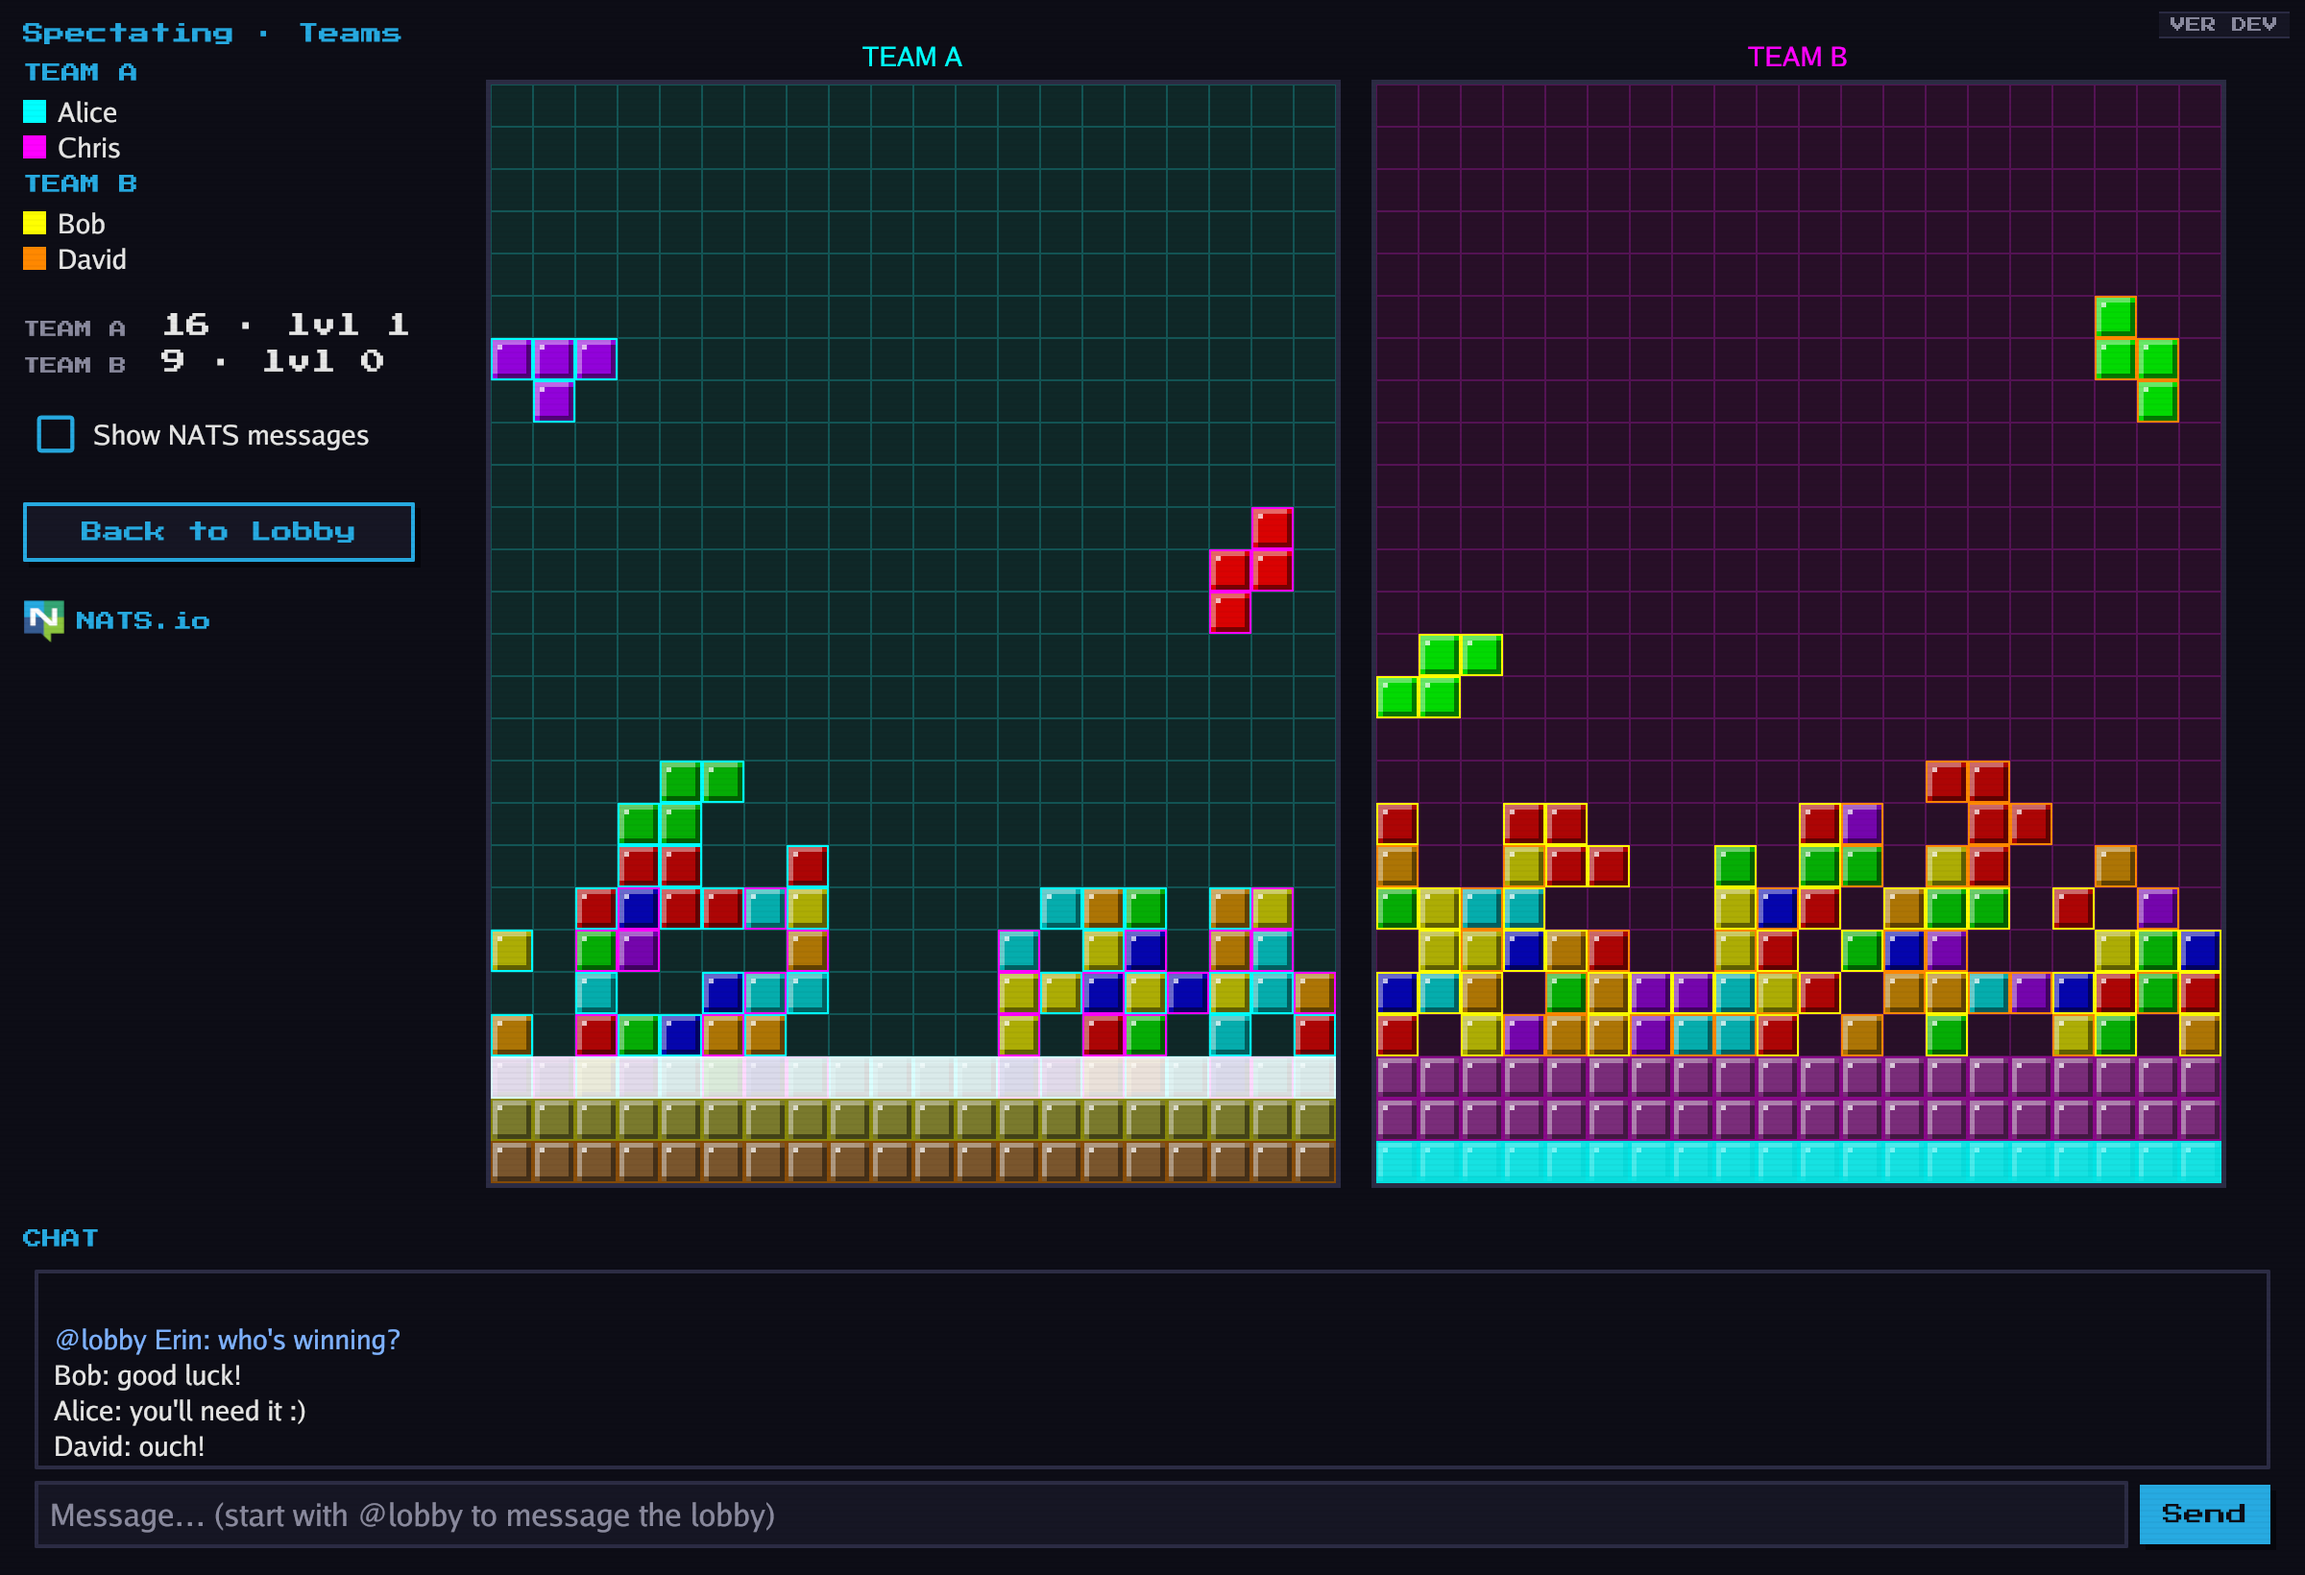
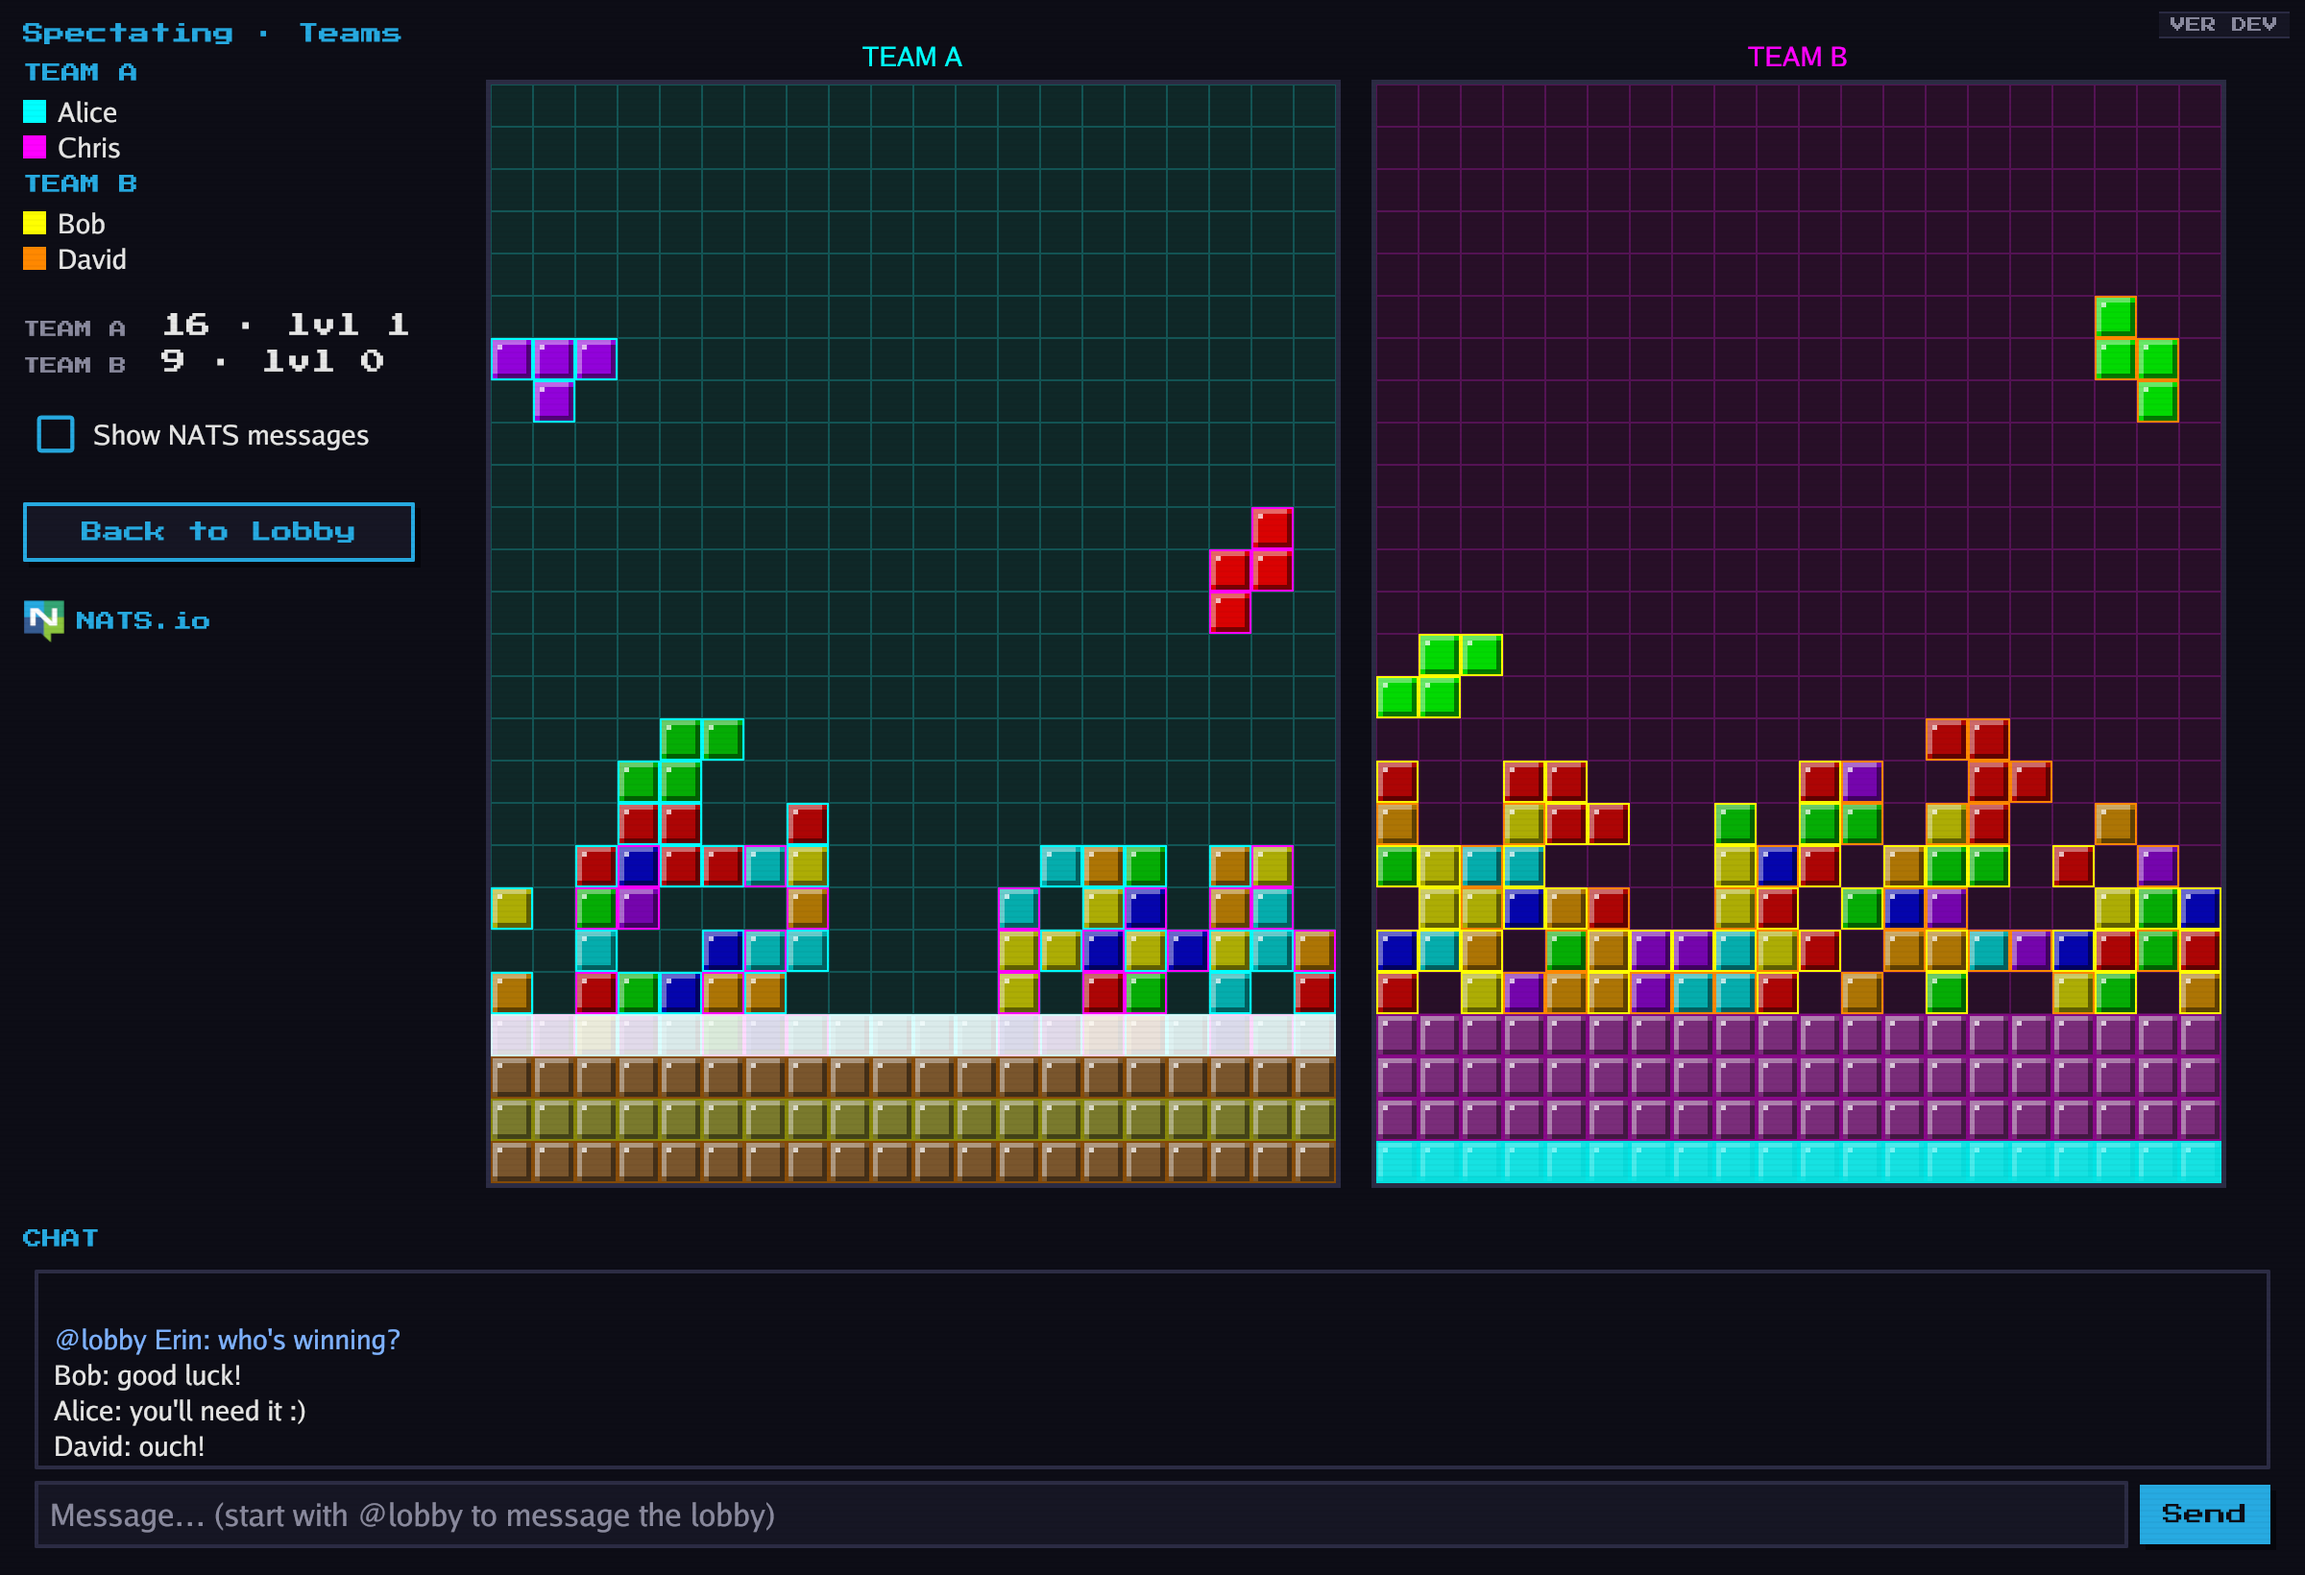
Update README screenshots

Changed region(s): [[0.1875, 0.4354, 0.9688, 0.7152]]

diff --git a/internal/nativeui/readme_screenshots_test.go b/internal/nativeui/readme_screenshots_test.go
@@ -221,15 +221,18 @@ func TestCaptureREADMEScreenshots(t *testing.T) {
 		t.Fatal(err)
 	}
 
-	// Both teams already carry garbage from earlier exchanges: team A (Alice
-	// + Chris) two rows sent by team B — David's at the bottom, Bob's above —
-	// and team B (Bob + David) two rows sent by Chris. Team A's stack keeps
-	// the slot open for the staged clear.
+	// Both teams already carry a few rows of garbage from earlier exchanges:
+	// team A (Alice + Chris) three rows sent by team B — David's, Bob's and
+	// David's again, bottom up, so the per-sender framing shows — and team B
+	// (Bob + David) three rows, all sent by Chris, so the row about to land
+	// from Alice stands out in her color. Team A's stack keeps the slot open
+	// for the staged clear.
+	garbageA, garbageB := []int{3, 2, 3}, []int{1, 1, 1}
 	rng := rand.New(rand.NewSource(3))
-	prefillTeamBoard(t, js, gameID, 0, []int{3, 2}, true, rng)
-	prefillTeamBoard(t, js, gameID, 1, []int{1, 1}, false, rng)
+	prefillTeamBoard(t, js, gameID, 0, garbageA, true, rng)
+	prefillTeamBoard(t, js, gameID, 1, garbageB, false, rng)
 	height := config.TeamTotalRows(2)
-	floorA := height - 1 - 2 // team A's lowest stack row: the one the I piece completes
+	floorA := height - 1 - len(garbageA) // team A's lowest stack row: the one the I piece completes
 
 	// Four player engines (team A: Alice+Chris, team B: Bob+David) and a
 	// spectator engine, all consuming the real game stream.
@@ -293,8 +296,8 @@ func TestCaptureREADMEScreenshots(t *testing.T) {
 	// screens seed their garbage detection — and no row may be complete yet
 	// (the prefill is seeded, so a complete row here means the seed changed).
 	waitFor(t, "pre-attack boards", func() bool {
-		return garbageRowsOf(spec, 0) == 2 && garbageRowsOf(spec, 1) == 2 &&
-			garbageRowsOf(bob, 0) == 2 && garbageRowsOf(bob, 1) == 2
+		return garbageRowsOf(spec, 0) == len(garbageA) && garbageRowsOf(spec, 1) == len(garbageB) &&
+			garbageRowsOf(bob, 0) == len(garbageA) && garbageRowsOf(bob, 1) == len(garbageB)
 	})
 	for team := 0; team < config.TeamCount; team++ {
 		if rows := completedRowsOf(spec, team); len(rows) > 0 {
@@ -360,17 +363,19 @@ func TestCaptureREADMEScreenshots(t *testing.T) {
 	if _, err := js.Publish(ctx, config.TeamGarbageSubject(gameID, 1), reg); err != nil {
 		t.Fatal(err)
 	}
+	landedB := len(garbageB) + 1
 	waitFor(t, "the clear and the landed garbage row on every replica", func() bool {
 		return len(completedRowsOf(spec, 0)) == 1 && len(completedRowsOf(bob, 0)) == 1 &&
-			garbageRowsOf(spec, 1) == 3 && garbageRowsOf(bob, 1) == 3
+			garbageRowsOf(spec, 1) == landedB && garbageRowsOf(bob, 1) == landedB
 	})
 
 	// Screenshot 1: the spectator's view of both team boards. The landed row
 	// strobes in Alice's color through the spectator screen's own detection
 	// (one layout pass to observe it, then the frame drawn at the strobe's
-	// epoch, i.e. lit). The line-clear strobe is the clearer's local
-	// celebration — never broadcast, so no spectator could derive it — and
-	// is staged on the completed row for the picture.
+	// epoch, i.e. lit). The line-clear strobe is the clearing team's own
+	// celebration — the screen only strobes it for players, never on a
+	// spectator's boards — so it is staged on the completed row for the
+	// picture.
 	layoutOnly(specApp, time.Now())
 	specApp.mu.Lock()
 	landed, ok := specApp.specRowStrobes[1][height-1]
